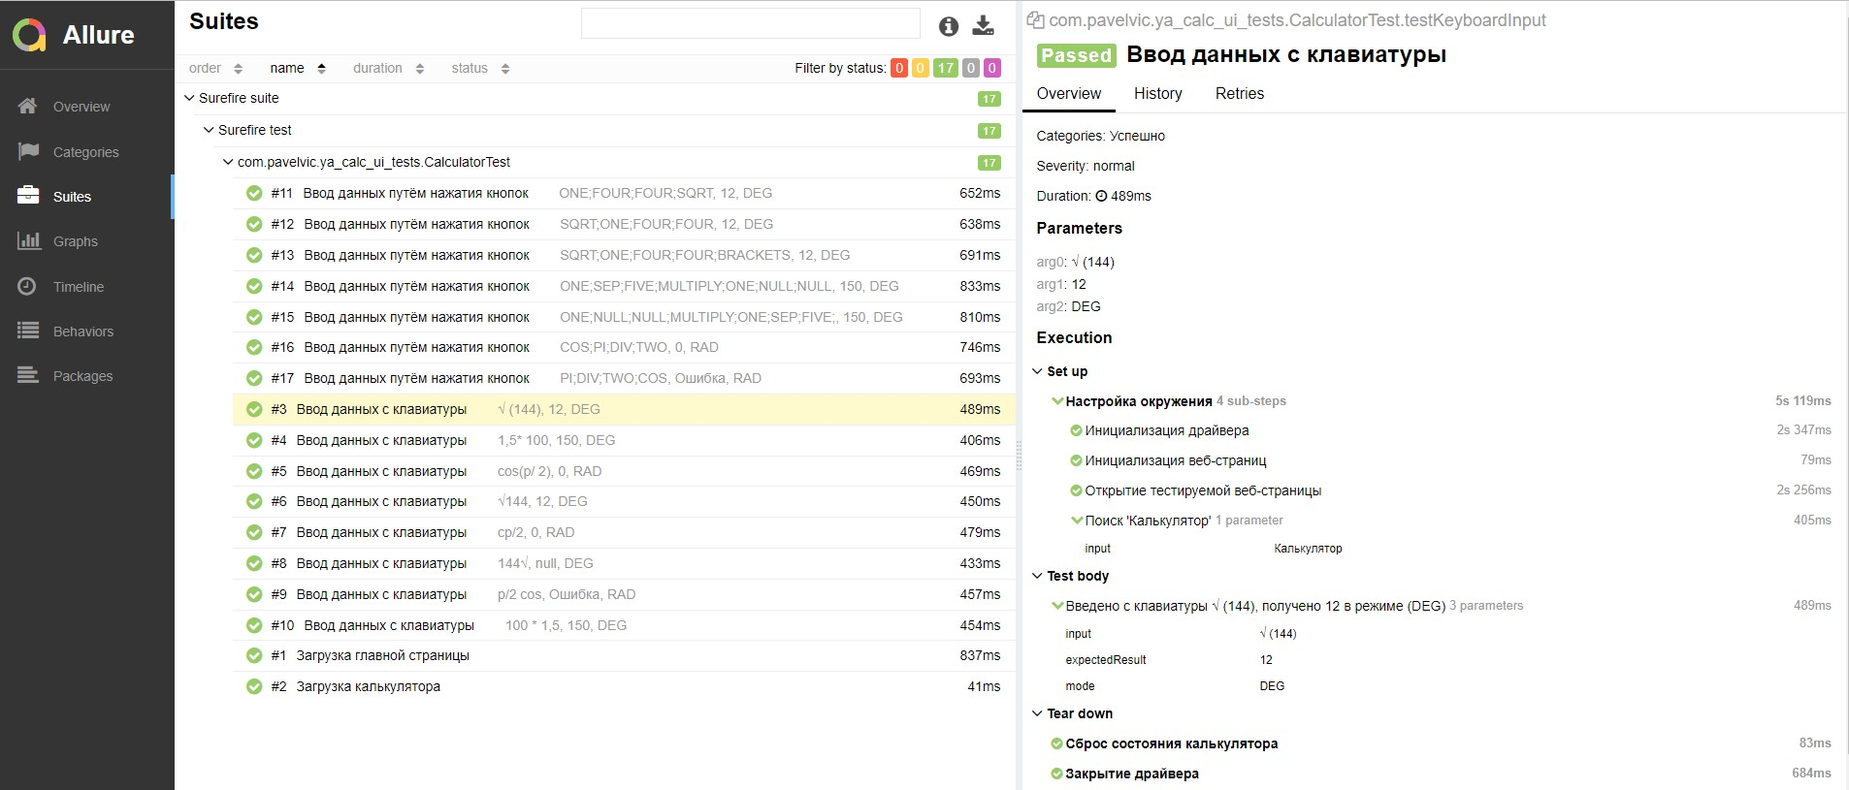
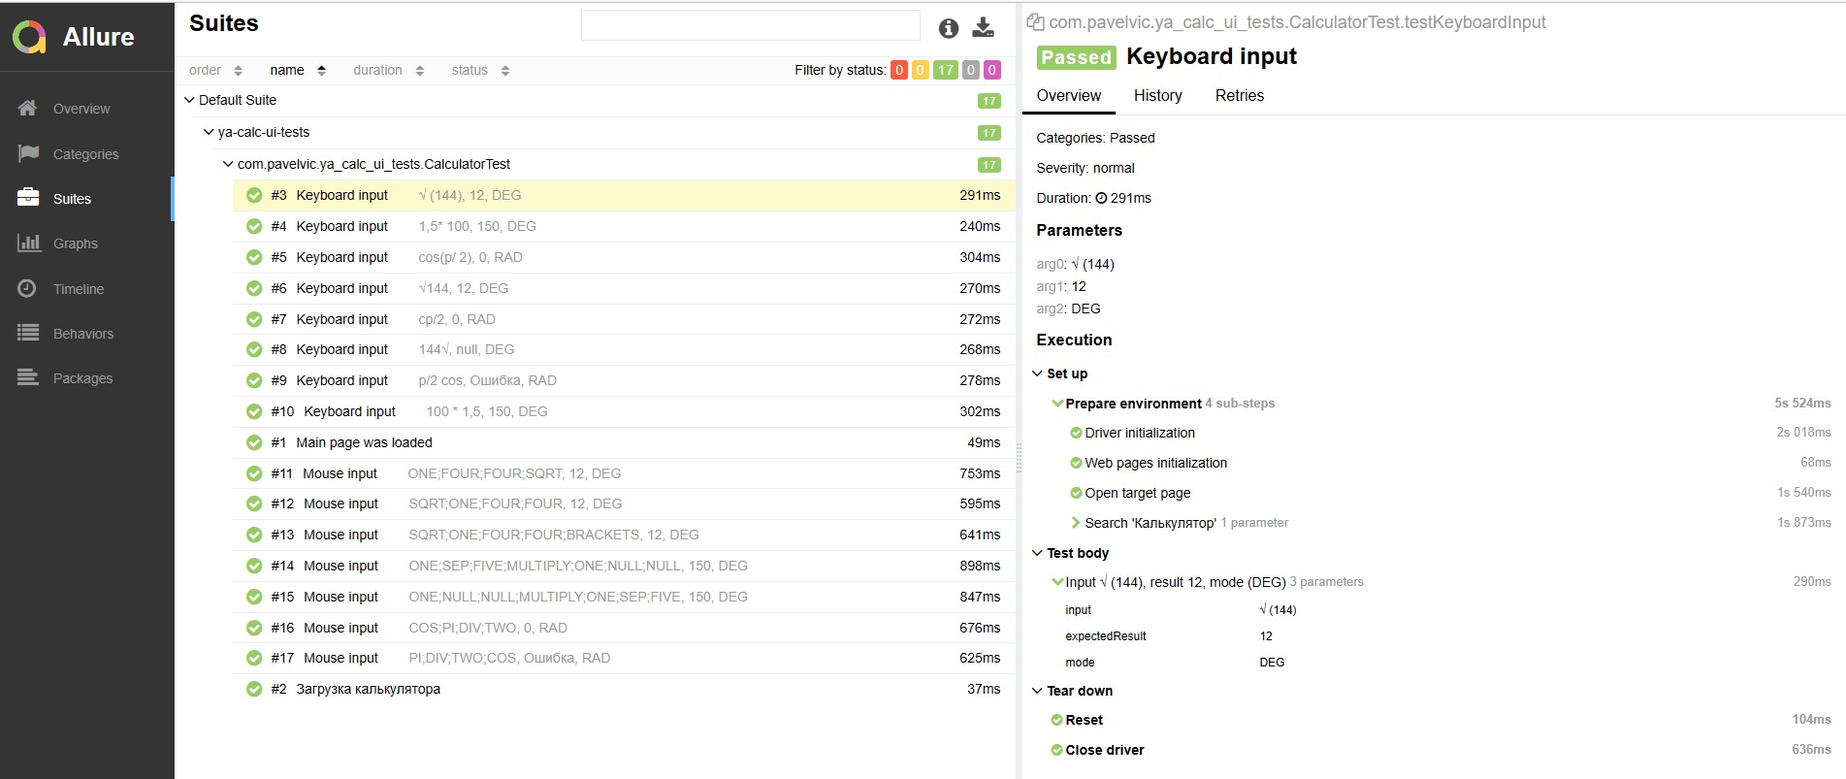
actualisation

diff --git a/src/test/java/com/pavelvic/ya_calc_ui_tests/CalculatorTest.java b/src/test/java/com/pavelvic/ya_calc_ui_tests/CalculatorTest.java
@@ -10,15 +10,12 @@ import org.openqa.selenium.chrome.ChromeDriver;
 import org.openqa.selenium.support.ui.ExpectedConditions;
 import org.openqa.selenium.support.ui.WebDriverWait;
 import org.testng.annotations.*;
-
 import java.util.Arrays;
 import java.util.List;
 import java.util.concurrent.TimeUnit;
 import java.util.stream.Collectors;
-
 import static org.hamcrest.MatcherAssert.assertThat;
 import static org.hamcrest.Matchers.is;
-
 import static ru.yandex.qatools.htmlelements.matchers.WebElementMatchers.exists;
 
 public class CalculatorTest {
@@ -28,14 +25,7 @@ public class CalculatorTest {
     private SearchPage searchPage;
     private ResultPage resultPage;
 
-    /* чек лист:
-     * проверить загрузку главной страницы c формой поиска и страницы с результатами и калькулятором
-     * проверить ввод формулы с клавиатуры (прямой / обратный порядок ввода)
-     * проверить ввод формулы кнопками на форме (прямой / обратный порядок ввода)
-     * проверить работу функциональности autocomplete (ввод с клавиатуры / с кнопок приложения)
-     */
-
-    @Step("Инициализация драйвера")
+    @Step("Driver initialization")
     private void driverInit() {
         System.setProperty("webdriver.chrome.driver", ConfProperties.getProperty("chromedriver"));
         driver = new ChromeDriver();
@@ -46,25 +36,24 @@ public class CalculatorTest {
         driver.manage().window().maximize();
     }
 
-    @Step("Инициализация веб-страниц")
+    @Step("Web pages initialization")
     private void initPages () {
         searchPage = new SearchPage(driver);
         resultPage = new ResultPage(driver);
     }
 
-    @Step("Открытие тестируемой веб-страницы")
+    @Step("Open target page")
     private void openPage () {
         driver.get(ConfProperties.getProperty("mainpage"));
     }
 
-    @Step ("Поиск '{input}'")
+    @Step ("Search '{input}'")
     private void searchSomething (String input) {
         searchPage.search(input);
 
     }
 
-    //настройка окружения перед тестами + открытие страницы с тестируемым приложением
-    @BeforeClass (description = "Настройка окружения")
+    @BeforeClass (description = "Prepare environment")
     public void setup() {
        driverInit();
        initPages();
@@ -83,33 +72,20 @@ public class CalculatorTest {
         }
     }
 
-    //тест кейсы для ввода данных с клавиатуры в формате {"последовательность символов для ввода с клавиатуры", "результат", "режим вычисления (RAD / DEG)"}
     @DataProvider
     private Object[][] possibleInputs() {
         return new Object[][]{
                 {"√  (144)", "12", "DEG"},
                 {"1,5* 100", "150", "DEG"},
                 {"cos(p/ 2)", "0","RAD"},
-
-                 /*для некоторых вводимых формул у программы есть функция autocomplete
-                 * из наших кейсов это формулы "√(144)" и "cos(p / 2)"
-                 * для этих формул необязательно вводить с клавиатуры полность и последовательно символы "√", "(", "144", ")"
-                 * программа умеет подставлять нужные знаки. Например, для вычисления "√(144) = 12" достаточно ввести с клавиатуры последовательно только  "√", "144" и нажать "равно",
-                 * программа должна сама подставить недостающие символы и посчитать результат, эту функцию и проверяют следующие кейсы
-                 * аналогично для "cos(p / 2)" достаточно ввести с клавиатуры только "c" (cos), "p" (число Пи), "/" (деление), "2" (цифра два)
-                 * **/
                 {"√144", "12", "DEG"},
                 {"cp/2", "0", "RAD"},
-
-                /*тест кейсы с измененённым порядком аргументов*/
-                {"144√", "", "DEG"}, //не окончательное выражение введено
-                {"p/2 cos", "Ошибка", "RAD"}, //ошибка ввода
-                {"100   * 1,5", "150", "DEG"}, //от перестановки множителей произведение не меняется
-
+                {"144√", "", "DEG"},
+                {"p/2 cos", "Ошибка", "RAD"},
+                {"100   * 1,5", "150", "DEG"},
         };
     }
 
-    //тест кейсы для ввода данных путем нажатия кнопок в интерфейсе {"операции через ';' по названию кнопок", "результат", "режим вычисления (RAD / DEG)"}
     @DataProvider
     private Object[][] possibleManualInputs() {
         return new Object[][]{
@@ -123,81 +99,53 @@ public class CalculatorTest {
         };
     }
 
-
-    //приоритет 1, так как другие тесты не имеют смысла без проверки что мы получили главную страницу
-    //приоритет 2 у тесте наличия калькулятора в резлуьтатах поиска калькулятор для работы, остальные тесты - приоритет 3
-    @Feature("Инициализация главной страницы")
-    @Step ("Появилась главная страница с формой для ввода и кнопкой 'Найти'")
-    @Test (priority = 1, description = "Загрузка главной страницы")
+    @Feature("Main page initialization")
+    @Step ("Main page is opened. Button 'Найти' is presented")
+    @Test (priority = 1, description = "Main page was loaded")
     public void testHasMainPageWithSearchArrowElement() {
         assertThat(searchPage.getSearchArrow(), exists());
     }
 
-    @Feature("Инициализация калькулятора")
-    @Step ("Калькулятор загрузился на странице с результатами поиска")
+    @Feature("Calculator page init")
+    @Step ("Calculator was loaded")
     @Test (priority = 2, description = "Загрузка калькулятора")
     public void testHasCalculatorInFastResultSection() {
         assertThat(resultPage.getCalculatorElement(), exists());
     }
 
-    @Feature("Ввод формул с клавиатуры")
-    @Step ("Введено с клавиатуры {input}, получено {expectedResult} в режиме ({mode})")
-    @Test(dataProvider = "possibleInputs", priority = 3, description = "Ввод данных с клавиатуры")
+    @Feature("Keyboard inputs")
+    @Step ("Input {input}, result {expectedResult}, mode ({mode})")
+    @Test(dataProvider = "possibleInputs", priority = 3, description = "Keyboard input")
     public void testKeyboardInput(String input, String expectedResult, String mode) {
-        //установка режима калькулятора
         modeSwitcher(mode);
-
-        //вводим значения из источника данных
         resultPage.inputExpression(input+Keys.ENTER);
-
-        //получаем результат и сверяем с ожиданием
         assertThat(expectedResult.equals("Ошибка") ? resultPage.getError() : resultPage.getResult(),is(expectedResult));
     }
 
-    @Feature("Ввод формул путём нажания кнопок")
-    @Step ("Введена следующая комбинация кнопок: {input}. Получено {expectedResult} в режиме ({mode})")
-    @Test(dataProvider = "possibleManualInputs", priority = 3, description = "Ввод данных путём нажатия кнопок")
+    @Feature("Mouse input")
+    @Step ("Clicked: {input}, result {expectedResult}, mode ({mode})")
+    @Test(dataProvider = "possibleManualInputs", priority = 3, description = "Mouse input")
     public void testManualInput (String input, String expectedResult, String mode) {
-
-        //установка режима
         modeSwitcher(mode);
-
-        //парсим инпут
         List<CalcButtons> inputButtons = Arrays.stream(input.split(";")).map(CalcButtons::valueOf).collect(Collectors.toList());
-
-        //нажимаем кнопки
         inputButtons.forEach(p->resultPage.clickButton(p));
-
-        /*к сожалению, здесь нельзя сделать без такого грубого ожидания (или я не знаю как)
-        проблема в том, что нажатие кнопки "=" должно быть выполнено гарантированно после нажатия всех кнопок в цикле выше,
-        но так не происходит, программа пытается нажать кнопку раньше завершения ввода
-        при этом на веб-странице нет никакого признака окончания ввода, чтобы можно было использовать ожидание изменения состояния страницы,
-        мы не можем сказать программе какого изменения состояния страницы надо ждать
-                */
-        //TODO подумать на досуге
         try {
             Thread.sleep(100);
         } catch (InterruptedException e) {
             e.printStackTrace();
         }
-
-        //равно
         resultPage.clickEqualBtn();
-
-        //получаем и сравниваем результат
         assertThat(expectedResult.equals("Ошибка") ? resultPage.getError() : resultPage.getResult(),is(expectedResult));
     }
 
-    @AfterMethod (description = "Сброс состояния калькулятора")
+    @AfterMethod (description = "Reset")
     private void clearButtonClk () {
-        //ожидание очищения калькулятора
         resultPage.clickClearBtn();
-        //здесь удалось реализовать явное ожидание средствами Selenium, поскольку есть атрибут страницы, который четко меняется только после нажатия сброса
         WebElement we = driver.findElement(By.xpath("//*[@class = 'calculator__screen']//*[@class = 'input__box']/.."));
         wait.until(ExpectedConditions.attributeContains(we,"class","input_empty_yes"));
     }
 
-    @AfterClass (description = "Закрытие драйвера")
+    @AfterClass (description = "Close driver")
     public void tearDown() {
         driver.quit();
     }

diff --git a/src/main/java/com/pavelvic/ya_calc_ui_tests/CalculatorElement.java b/src/main/java/com/pavelvic/ya_calc_ui_tests/CalculatorElement.java
@@ -3,97 +3,65 @@ package com.pavelvic.ya_calc_ui_tests;
 import org.openqa.selenium.support.FindBy;
 import ru.yandex.qatools.htmlelements.element.*;
 
-/*блок страницы, реализующий клалькулятор*/
 @FindBy(className = "calculator__wrapper")
 public class CalculatorElement extends HtmlElement {
-
-    /*
-     задача протестировать выражения (sqrt(144) = 12;      cos(Pi/2) = 0;     1,5 * 100 = 150):
-     необходимые для этих выражений элементы страницы с калькулятором:
-     - текстовое поле ввода;
-     - переключатель DEG / RAD
-     - кнопки калькулятора:
-     - числа 0, 1, 2, 4, 5;
-     - операции: запятая ","; Pi (π); sqrt (√); cos; знак умножения (*); знак деления (/); скобки "()"; кнопка сброса (C, clear); кнопка "равно" (=)
-     Ограничения тестового задания говорят, что достаточно описать только эти поля. При реальном тестировании, конечно, следует моделировать страницу полностью
-     Но сейчас это не нужно и создат много лишнего кода, поэтому ограничился только этими полями
-     */
 
     @FindBy(xpath = "//div[@class = 'calculator__wrapper']//span[@class = \"input__box\"]/input")
     private TextInput expression;
 
-    //поле с результатом
     @FindBy(className = "calculator-display__result")
     private TextBlock result;
 
-    //поле с вводом
     @FindBy(className = "calculator-display__input-string")
     private TextBlock input;
 
-    //поле с инфой об ошибке
     @FindBy(className = "calculator-display__error")
     private TextBlock error;
 
-    //свитчер режима калькулятора
     @FindBy(name = "switcher")
     private Radio switcherDegRad;
 
-    //кнопка на калькуляторе "0"
     @FindBy(xpath = "//*[@class = \"button2__text\" and text() = '0']/..")
     private Button nullBtn;
 
-    //кнопка на калькуляторе "1"
     @FindBy(xpath = "//*[@class = \"button2__text\" and text() = '1']/..")
     private Button oneBtn;
 
-    //кнопка на калькуляторе "2"
     @FindBy(xpath = "//*[@class = \"button2__text\" and text() = '2']/..")
     private Button twoBtn;
 
-    //кнопка на калькуляторе "4"
     @FindBy(xpath = "//*[@class = \"button2__text\" and text() = '4']/..")
     private Button fourBtn;
 
-    //кнопка на калькуляторе "5"
     @FindBy(xpath = "//*[@class = \"button2__text\" and text() = '5']/..")
     private Button fiveBtn;
 
-    //кнопка "," (разделитель разрядов числа)
     @FindBy(xpath = "//*[@class = \"button2__text\" and text() = ',']/..")
     private Button separatorBtn;
 
-    //кнопка "Pi" (число Пи)
     @FindBy(xpath = "//*[@class = \"button2__text\" and text() = 'π']/..")
     private Button piBtn;
 
-    //кнопка "квардартный корень"
     @FindBy(xpath = "//*[@class = \"button2__text\" and text() = '√']/..")
     private Button sqrtBtn;
 
-    //кнопка "косинус" (cos)
     @FindBy(xpath = "//*[@class = \"button2__text\" and text() = 'cos']/..")
     private Button cosBtn;
 
-    //кнопка "умножение" *
     @FindBy(xpath = "//*[@class = \"button2__text\" and text() = '×']/..")
     private Button multiplyBtn;
 
-    //кнопка "деление" /
     @FindBy(xpath = "//*[@class = \"button2__text\" and text() = '÷']/..")
     private Button divisionBtn;
 
-    //кнопка "скобки" ()
     @FindBy(xpath = "//*[@class = \"button2__text\" and text() = '( )']/..")
     private Button bracketsBtn;
 
-    //кнопка "сброс" С
     @FindBy(xpath = "//*[@class = \"button2__text\" and text() = 'C']/..")
     private Button clearBtn;
 
-    //кнопка "равно" =
     @FindBy(xpath = "//*[@class = \"button2__text\" and text() = '=']/..")
     private Button equalBtn;
-
 
     public TextInput getExpression() {
         return expression;
@@ -123,7 +91,6 @@ public class CalculatorElement extends HtmlElement {
         return equalBtn;
     }
 
-    //универсальный геттер кнопок калькулятора
     public Button getButton(CalcButtons calcButton) {
         switch (calcButton) {
             case NULL:

diff --git a/src/main/java/com/pavelvic/ya_calc_ui_tests/ResultPage.java b/src/main/java/com/pavelvic/ya_calc_ui_tests/ResultPage.java
@@ -6,7 +6,6 @@ import ru.yandex.qatools.htmlelements.element.TextBlock;
 import ru.yandex.qatools.htmlelements.loader.decorator.HtmlElementDecorator;
 import ru.yandex.qatools.htmlelements.loader.decorator.HtmlElementLocatorFactory;
 
-/*страницы с результатам поиска и релевантная для наших тестов функциональность*/
 public class ResultPage {
 
     private CalculatorElement calculatorElement;
@@ -47,7 +46,6 @@ public class ResultPage {
         return calculatorElement;
     }
 
-    //универсальный кликер кнопок калькулятора (перечень определён в enum CalcButtons)
     public void clickButton (CalcButtons calcButton) {
         calculatorElement.getButton(calcButton).click();
     }

diff --git a/src/main/java/com/pavelvic/ya_calc_ui_tests/SearchArrow.java b/src/main/java/com/pavelvic/ya_calc_ui_tests/SearchArrow.java
@@ -1,18 +1,17 @@
 package com.pavelvic.ya_calc_ui_tests;
 
-
 import org.openqa.selenium.support.FindBy;
 import ru.yandex.qatools.htmlelements.element.Button;
 import ru.yandex.qatools.htmlelements.element.HtmlElement;
 import ru.yandex.qatools.htmlelements.element.TextInput;
-/*Блок страницы с формой поиска (строка ввода + кнопка "Найти")*/
+
 @FindBy(xpath = "//form")
 public class SearchArrow extends HtmlElement {
 
-    @FindBy(id = "text")
+    @FindBy(xpath = "//input[@name = 'text']")
     private TextInput requestInput;
 
-    @FindBy (xpath = "//span[@class = 'button__text' and text()='Найти']//..")
+    @FindBy (css = "button.websearch-button")
     private Button searchButton;
 
     public void search(String request) {

diff --git a/src/main/java/com/pavelvic/ya_calc_ui_tests/ConfProperties.java b/src/main/java/com/pavelvic/ya_calc_ui_tests/ConfProperties.java
@@ -15,16 +15,12 @@ public class ConfProperties {
             PROPERTIES.load(fileInputStream);
         } catch (IOException e) {
             e.printStackTrace();
-            //обработка возможного исключения (нет файла и т.п.)
         } finally {
             if (fileInputStream != null)
                 try {
                     fileInputStream.close();
                 } catch (IOException e) {
                     e.printStackTrace(); } } }
-    /**
-     * метод для возврата строки со значением из файла с настройками
-     */
     public static String getProperty(String key) {
         return PROPERTIES.getProperty(key); }
 }

diff --git a/src/main/java/com/pavelvic/ya_calc_ui_tests/CalcButtons.java b/src/main/java/com/pavelvic/ya_calc_ui_tests/CalcButtons.java
@@ -1,18 +1,18 @@
 package com.pavelvic.ya_calc_ui_tests;
 
 public enum CalcButtons {
-    NULL, //0
-    ONE, //1
-    TWO, //2
-    FOUR, //4
-    FIVE, //5
-    SEP, //разделитель разрядов числа ','
-    PI, //число Pi
-    SQRT, //квадратный корень
-    COS, // косинус
-    MULTIPLY, //умножение
-    DIV, //деление
-    BRACKETS, //скобки
-    CLEAR, //очистить
-    EQUAL //равно
+    NULL,
+    ONE,
+    TWO,
+    FOUR,
+    FIVE,
+    SEP,
+    PI,
+    SQRT,
+    COS,
+    MULTIPLY,
+    DIV,
+    BRACKETS,
+    CLEAR,
+    EQUAL
 }

diff --git a/src/main/java/com/pavelvic/ya_calc_ui_tests/SearchPage.java b/src/main/java/com/pavelvic/ya_calc_ui_tests/SearchPage.java
@@ -5,7 +5,6 @@ import org.openqa.selenium.support.PageFactory;
 import ru.yandex.qatools.htmlelements.loader.decorator.HtmlElementDecorator;
 import ru.yandex.qatools.htmlelements.loader.decorator.HtmlElementLocatorFactory;
 
-/*главная страница с формой для поиска*/
 public class SearchPage {
 
     SearchArrow searchArrow;
